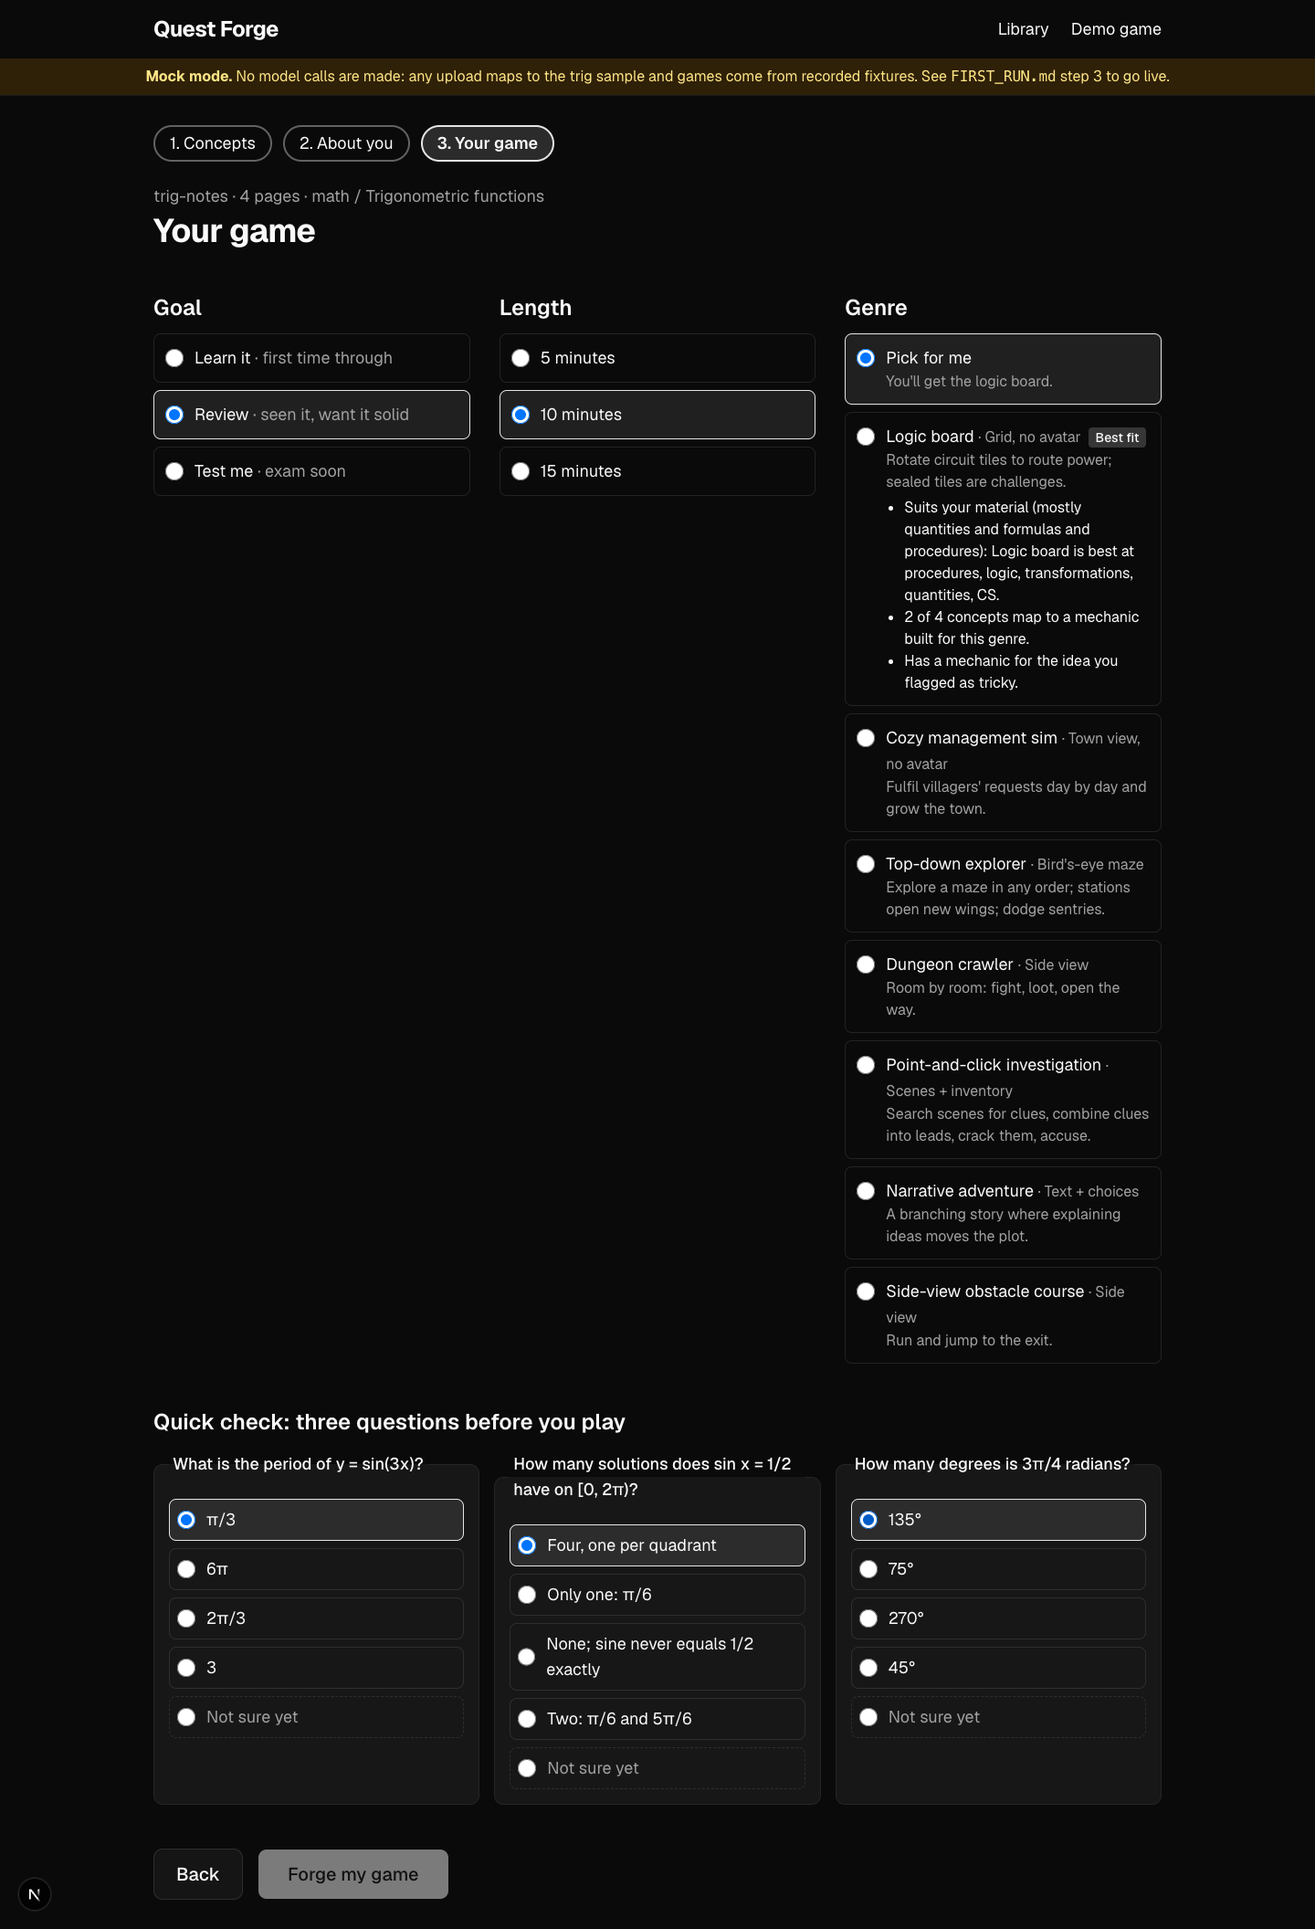
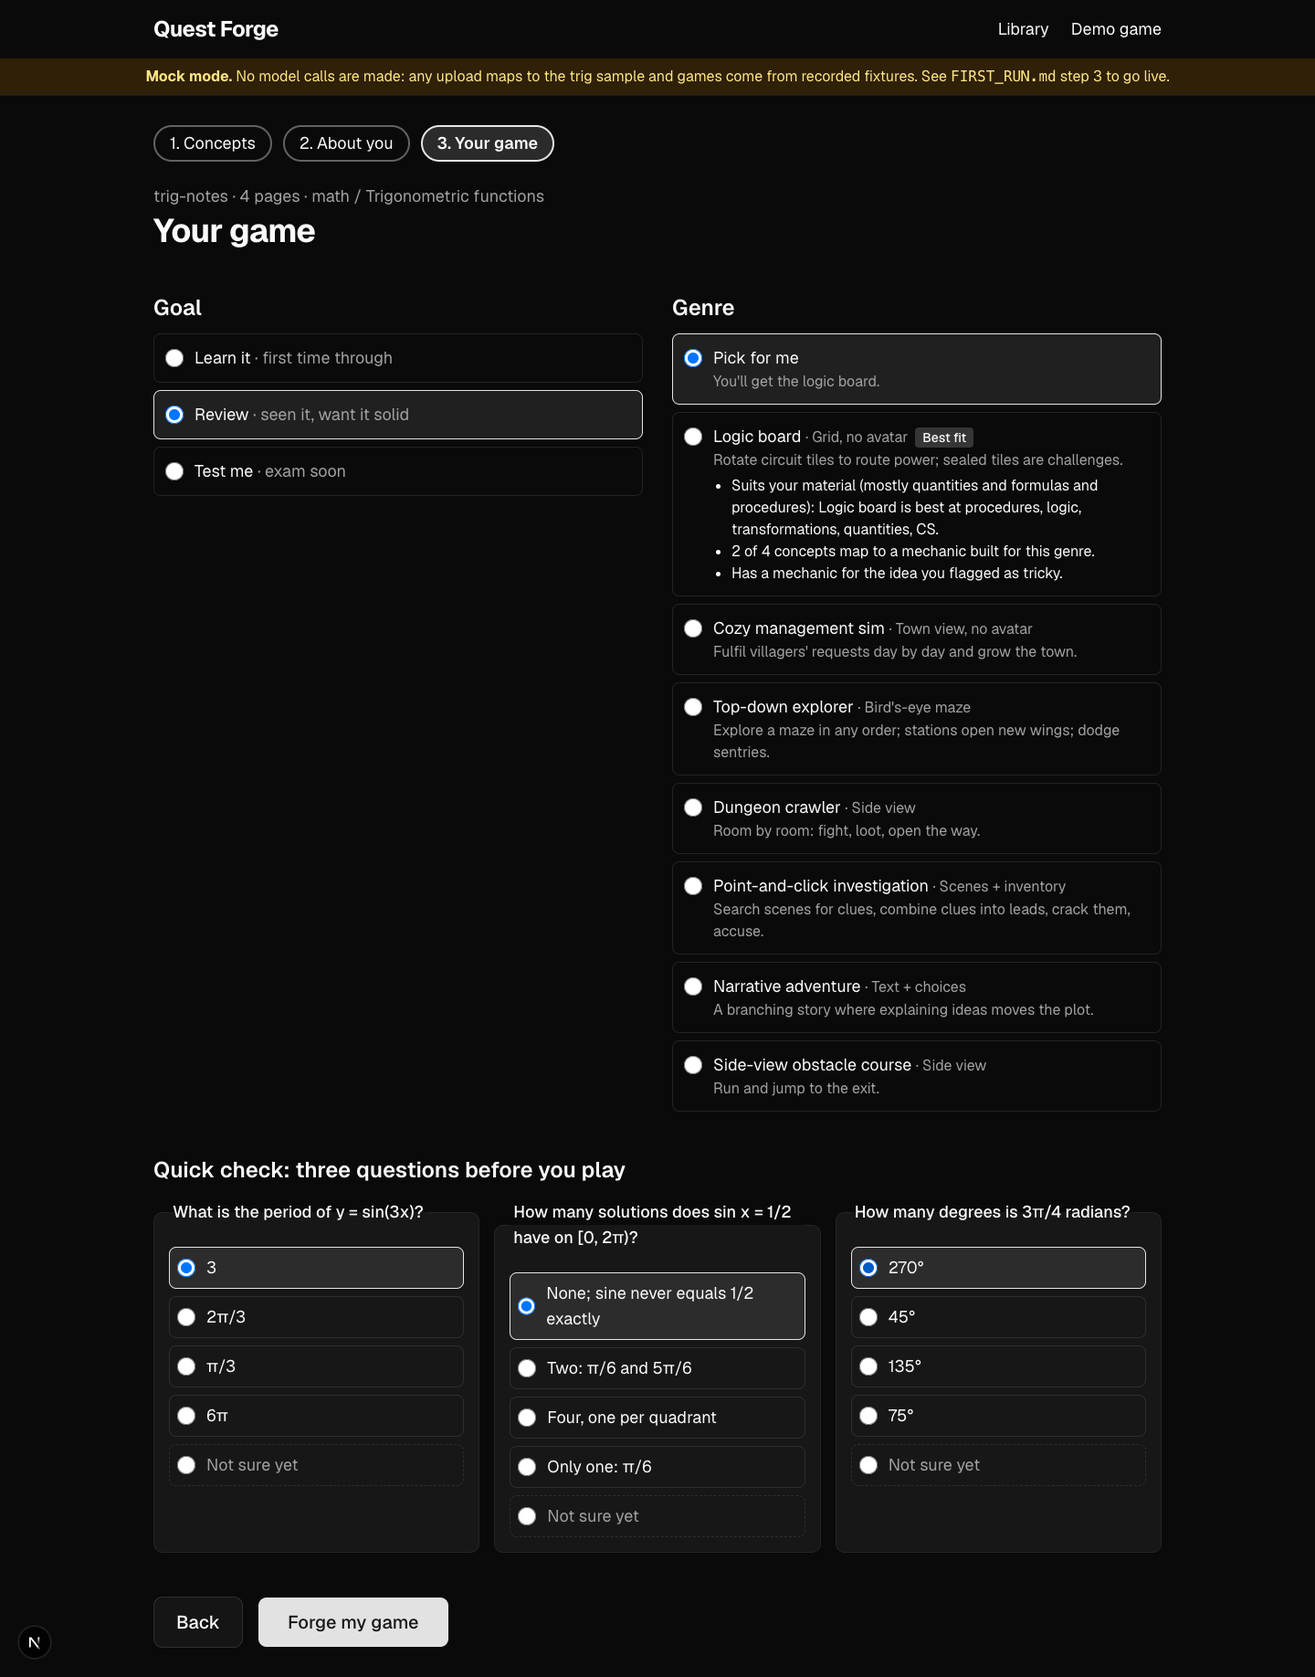
Let the student pick exactly which concepts the game covers
The length (5 / 10 / 15 minutes) moves to the Concepts step and caps the
pick at 4 / 7 / 10 concepts: past the cap the remaining boxes lock, a
selection that fits starts fully ticked, and choosing a shorter game than
the current pick blocks Next and Forge until enough are unticked. The job
then runs on exactly the ticked concepts; server-side focusing remains
only as a safety net for API clients and regenerate.

New e2e/concept-pick.spec.ts; 2232 unit tests and 17 e2e specs pass.

diff --git a/src/components/flow/intake-form.tsx b/src/components/flow/intake-form.tsx
@@ -23,8 +23,6 @@ interface IntakeData {
   parts?: number;
 }
 
-/** Up to this many concepts (one chapter's worth) everything starts ticked; above it the student picks. */
-export const SELECT_ALL_UP_TO = 25;
 /** How long after the last tick before asking the server for questions on the new selection. */
 const PRECHECK_DEBOUNCE_MS = 700;
 
@@ -34,6 +32,8 @@ const GOALS: { id: Intake["goal"]; label: string; hint: string }[] = [
   { id: "test", label: "Test me", hint: "exam soon" },
 ];
 const MINUTES: Intake["minutes"][] = [5, 10, 15];
+/** The length the page opens on; its concept limit decides whether everything starts ticked. */
+const DEFAULT_MINUTES: Intake["minutes"] = 10;
 
 /** The intake is three steps: what to play, what the student brings to it, and the game itself. */
 const STEPS = [
@@ -67,7 +67,7 @@ export function IntakeForm({ sourceId }: { sourceId: string }) {
   const [data, setData] = useState<IntakeData | null>(null);
   const [error, setError] = useState<string | null>(null);
   const [goal, setGoal] = useState<Intake["goal"]>("review");
-  const [minutes, setMinutes] = useState<Intake["minutes"]>(10);
+  const [minutes, setMinutes] = useState<Intake["minutes"]>(DEFAULT_MINUTES);
   const [genre, setGenre] = useState<Intake["genre"]>("auto");
   const [confidence, setConfidence] = useState<Record<string, number>>({});
   const [selected, setSelected] = useState<Set<string>>(new Set());
@@ -91,7 +91,8 @@ export function IntakeForm({ sourceId }: { sourceId: string }) {
         setData(d);
         setConfidence(Object.fromEntries(d.knowledgeMap.units.map((u) => [u.id, 3])));
         const all = d.knowledgeMap.concepts.map((c) => c.id);
-        setSelected(new Set(all.length <= SELECT_ALL_UP_TO ? all : []));
+        // Everything fits in the default length: start fully ticked. Otherwise the student picks which ones.
+        setSelected(new Set(all.length <= CONCEPTS_PER_GAME[DEFAULT_MINUTES] ? all : []));
       })
       .catch((e) => !cancelled && setError(e instanceof Error ? e.message : String(e)));
     return () => {
@@ -101,6 +102,9 @@ export function IntakeForm({ sourceId }: { sourceId: string }) {
 
   const total = data?.knowledgeMap.concepts.length ?? 0;
   const allSelected = total > 0 && selected.size === total;
+  // The game covers exactly the ticked concepts, so the length caps how many can be ticked.
+  const cap = CONCEPTS_PER_GAME[minutes];
+  const overCap = selected.size > cap;
   const selectionKey = useMemo(() => [...selected].sort().join(","), [selected]);
   const needsSubset = data !== null && selected.size > 0 && !allSelected;
   // Questions follow the selection: the prep pre-check covers the whole map, so a subset gets its own.
@@ -154,7 +158,7 @@ export function IntakeForm({ sourceId }: { sourceId: string }) {
     headingRef.current?.focus();
   }, [step]);
 
-  const ready = !!data && selected.size > 0 && !preCheckBusy && preCheck.length > 0 && answers.length === preCheck.length && answers.every((a) => a !== undefined);
+  const ready = !!data && selected.size > 0 && !overCap && !preCheckBusy && preCheck.length > 0 && answers.length === preCheck.length && answers.every((a) => a !== undefined);
 
   if (error) {
     return (
@@ -204,6 +208,7 @@ export function IntakeForm({ sourceId }: { sourceId: string }) {
     setAnswers([]);
   };
   const toggleConcept = (id: string, on: boolean) => {
+    if (on && selected.size >= cap) return;
     const next = new Set(selected);
     if (on) next.add(id);
     else next.delete(id);
@@ -212,8 +217,8 @@ export function IntakeForm({ sourceId }: { sourceId: string }) {
   const setUnit = (u: Unit, on: boolean) => {
     const next = new Set(selected);
     for (const id of u.conceptIds) {
-      if (on) next.add(id);
-      else next.delete(id);
+      if (on && next.size < cap) next.add(id);
+      else if (!on) next.delete(id);
     }
     changeSelection(next);
   };
@@ -245,7 +250,8 @@ export function IntakeForm({ sourceId }: { sourceId: string }) {
     }
   };
 
-  const bigUpload = total > SELECT_ALL_UP_TO;
+  const bigUpload = total > cap;
+  const atCap = selected.size >= cap;
   const parts = data.parts ?? 1;
 
   return (
@@ -276,19 +282,42 @@ export function IntakeForm({ sourceId }: { sourceId: string }) {
 
       {step === 0 && (
         <section aria-labelledby="step-heading">
+          <fieldset>
+            <legend className="text-2xl font-semibold">How long a game?</legend>
+            <div className="mt-3 flex flex-wrap gap-3">
+              {MINUTES.map((m) => (
+                <label
+                  key={m}
+                  className={`flex cursor-pointer items-center gap-3 rounded-md border p-3 text-lg ${minutes === m ? "border-primary bg-primary/10" : "border-border"}`}
+                >
+                  <input type="radio" name="minutes" value={m} checked={minutes === m} onChange={() => setMinutes(m)} className="h-5 w-5" data-testid={`minutes-${m}`} />
+                  <span>
+                    {m} minutes <span className="text-muted-foreground">· up to {CONCEPTS_PER_GAME[m]} concepts</span>
+                  </span>
+                </label>
+              ))}
+            </div>
+          </fieldset>
           {bigUpload && (
             <p className="mt-6 rounded-lg border border-amber-400/40 bg-amber-500/10 p-4 text-lg" data-testid="big-upload-note">
-              This is more than one game&apos;s worth: {km.units.length} units and {total} concepts. Tick the concepts you want in this game: a 5-minute game holds
-              about {CONCEPTS_PER_GAME[5]}, a 15-minute one about {CONCEPTS_PER_GAME[15]}.
+              I found {total} concepts in {km.units.length} unit{km.units.length === 1 ? "" : "s"}, more than a {minutes}-minute game covers. Tick the {cap} you want
+              this game to cover, or pick a longer game.
             </p>
           )}
-          <div className="mt-4 flex flex-wrap items-center gap-x-5 gap-y-2 text-lg" data-testid="selection-summary">
+          {overCap && (
+            <p role="alert" className="mt-4 rounded-lg border border-destructive/50 bg-destructive/10 p-4 text-lg" data-testid="over-cap-note">
+              A {minutes}-minute game covers up to {cap} concepts. Untick {selected.size - cap} or pick a longer game.
+            </p>
+          )}
+          <div className="mt-4 flex flex-wrap items-center gap-x-5 gap-y-2 text-lg" data-testid="selection-summary" aria-live="polite">
             <span>
-              <strong>{selected.size}</strong> of {total} concept{total === 1 ? "" : "s"} selected
+              <strong>{selected.size}</strong> of up to {cap} picked · {total} concept{total === 1 ? "" : "s"} found
             </span>
-            <button type="button" className="underline underline-offset-4 hover:text-primary" onClick={selectAll} data-testid="select-all">
-              Select all
-            </button>
+            {total <= cap && (
+              <button type="button" className="underline underline-offset-4 hover:text-primary" onClick={selectAll} data-testid="select-all">
+                Select all
+              </button>
+            )}
             <button type="button" className="underline underline-offset-4 hover:text-primary" onClick={selectNone} data-testid="select-none">
               Select none
             </button>
@@ -309,6 +338,7 @@ export function IntakeForm({ sourceId }: { sourceId: string }) {
                           if (el) el.indeterminate = picked > 0 && !unitAll;
                         }}
                         onChange={(e) => setUnit(u, e.target.checked)}
+                        disabled={!unitAll && picked === 0 && selected.size >= cap}
                         aria-label={`Select every concept in ${u.name}`}
                         data-testid={`unit-${u.id}`}
                       />
@@ -323,11 +353,12 @@ export function IntakeForm({ sourceId }: { sourceId: string }) {
                       const range = pageRange(km, cid);
                       return (
                         <li key={cid} className="text-lg">
-                          <label className="flex cursor-pointer items-start gap-3">
+                          <label className={`flex items-start gap-3 ${atCap && !selected.has(cid) ? "cursor-not-allowed opacity-60" : "cursor-pointer"}`}>
                             <input
                               type="checkbox"
                               className="mt-1.5 h-5 w-5 shrink-0"
                               checked={selected.has(cid)}
+                              disabled={atCap && !selected.has(cid)}
                               onChange={(e) => toggleConcept(cid, e.target.checked)}
                               data-testid={`concept-${cid}`}
                             />
@@ -376,7 +407,7 @@ export function IntakeForm({ sourceId }: { sourceId: string }) {
 
       {step === 2 && (
         <>
-          <section aria-labelledby="setup-heading" className="grid gap-8 md:grid-cols-3">
+          <section aria-labelledby="setup-heading" className="grid gap-8 md:grid-cols-2">
             <h2 id="setup-heading" className="sr-only">
               Game setup
             </h2>
@@ -392,23 +423,6 @@ export function IntakeForm({ sourceId }: { sourceId: string }) {
                   </label>
                 ))}
               </div>
-            </fieldset>
-            <fieldset>
-              <legend className="text-2xl font-semibold">Length</legend>
-              <div className="mt-3 flex flex-col gap-2">
-                {MINUTES.map((m) => (
-                  <label key={m} className={`flex cursor-pointer items-center gap-3 rounded-md border p-3 text-lg ${minutes === m ? "border-primary bg-primary/10" : "border-border"}`}>
-                    <input type="radio" name="minutes" value={m} checked={minutes === m} onChange={() => setMinutes(m)} className="h-5 w-5" />
-                    {m} minutes
-                  </label>
-                ))}
-              </div>
-              {selected.size > CONCEPTS_PER_GAME[minutes] && (
-                <p className="mt-3 text-base text-muted-foreground" data-testid="focus-note">
-                  A {minutes}-minute game holds about {CONCEPTS_PER_GAME[minutes]} of your {selected.size} concepts. It will focus on the ones you
-                  need most (the ones you flagged and rated lowest); pick a longer game to cover more.
-                </p>
-              )}
             </fieldset>
             <GenrePicker genre={genre} onChange={setGenre} recommendations={recs?.key === recKey ? recs.items : null} />
           </section>
@@ -481,7 +495,7 @@ export function IntakeForm({ sourceId }: { sourceId: string }) {
           </Button>
         )}
         {step < 2 ? (
-          <Button size="lg" className="h-14 px-8 text-xl" disabled={selected.size === 0} onClick={() => setStep(step + 1)} data-testid="step-next">
+          <Button size="lg" className="h-14 px-8 text-xl" disabled={selected.size === 0 || overCap} onClick={() => setStep(step + 1)} data-testid="step-next">
             {step === 0 ? "Next: a few questions" : "Next: your game"}
           </Button>
         ) : (
@@ -490,10 +504,11 @@ export function IntakeForm({ sourceId }: { sourceId: string }) {
           </Button>
         )}
         {step === 0 && selected.size === 0 && <span className="text-lg text-muted-foreground">Pick at least one concept to continue.</span>}
+        {step === 0 && overCap && <span className="text-lg text-muted-foreground">Untick {selected.size - cap} to continue.</span>}
         {step === 1 && <span className="text-lg text-muted-foreground">Every question here is optional.</span>}
         {step === 2 && !ready && (
           <span className="text-lg text-muted-foreground">
-            {selected.size === 0 ? "Pick at least one concept to continue." : preCheckBusy ? "Waiting for your questions…" : "Answer the three questions to continue."}
+            {selected.size === 0 ? "Pick at least one concept to continue." : overCap ? "Too many concepts for this length: go back a step." : preCheckBusy ? "Waiting for your questions…" : "Answer the three questions to continue."}
           </span>
         )}
       </div>

diff --git a/e2e/concept-pick.spec.ts b/e2e/concept-pick.spec.ts
@@ -1,0 +1,57 @@
+import { expect, test } from "@playwright/test";
+import path from "node:path";
+
+/*
+ * The student picks exactly which concepts the game covers. The length caps how many (5 → 4, 10 → 7,
+ * 15 → 10, CONCEPTS_PER_GAME): past the cap the remaining boxes lock, shortening the game past the
+ * current selection blocks Next until some are unticked, and the game is built on precisely the
+ * ticked concepts (no server-side focusing). Mock mode: the cell-transport sample has 9 concepts.
+ */
+
+test.use({ viewport: { width: 1440, height: 900 } });
+
+test("the length caps the pick, and the game covers exactly the ticked concepts", async ({ page }) => {
+  test.setTimeout(180_000);
+  await page.goto("/");
+  await page.getByTestId("file-input").setInputFiles(path.join(process.cwd(), "samples/cell-transport.pdf"));
+  await page.waitForURL(/\/intake\//, { timeout: 60_000 });
+  await expect(page.getByTestId("intake-form")).toBeVisible({ timeout: 60_000 });
+
+  // 9 concepts > 7 for the default 10 minutes: nothing is pre-ticked, the student chooses.
+  await expect(page.getByTestId("big-upload-note")).toBeVisible();
+  const boxes = page.locator('input[data-testid^="concept-"]');
+  await expect(boxes).toHaveCount(9);
+  for (let i = 0; i < 9; i++) await expect(boxes.nth(i)).not.toBeChecked();
+  await expect(page.getByTestId("step-next")).toBeDisabled();
+
+  for (let i = 0; i < 7; i++) await boxes.nth(i).check();
+  await expect(page.getByTestId("selection-summary")).toContainText("7 of up to 7 picked");
+  await expect(boxes.nth(7)).toBeDisabled();
+  await expect(boxes.nth(8)).toBeDisabled();
+
+  // Shorter game than the selection: blocked until three come off.
+  await page.getByTestId("minutes-5").check();
+  await expect(page.getByTestId("over-cap-note")).toBeVisible();
+  await expect(page.getByTestId("step-next")).toBeDisabled();
+  for (const i of [0, 2, 4]) await boxes.nth(i).uncheck();
+  await expect(page.getByTestId("over-cap-note")).toHaveCount(0);
+  const picked: string[] = [];
+  for (let i = 0; i < 9; i++) {
+    if (await boxes.nth(i).isChecked()) picked.push((await boxes.nth(i).getAttribute("data-testid"))!.replace(/^concept-/, ""));
+  }
+  expect(picked).toHaveLength(4);
+
+  await page.getByTestId("step-next").click();
+  await page.getByTestId("step-next").click();
+  for (let i = 0; i < 3; i++) await page.getByTestId(`precheck-${i}`).getByRole("radio").first().check({ timeout: 30_000 });
+  const gamesRequest = page.waitForRequest((r) => r.url().endsWith("/api/games") && r.method() === "POST");
+  await page.getByTestId("forge-button").click();
+  const body = (await gamesRequest).postDataJSON() as { intake: { minutes: number; conceptIds: string[] } };
+  expect(body.intake.minutes).toBe(5);
+  expect([...body.intake.conceptIds].sort()).toEqual([...picked].sort());
+
+  await page.waitForURL(/\/play\//, { timeout: 180_000 });
+  const gameId = page.url().split("/play/")[1].split(/[?#]/)[0];
+  const game = await (await page.request.get(`/api/games/${gameId}`)).json();
+  expect(game.spec.concepts.map((c: { id: string }) => c.id).sort()).toEqual([...picked].sort());
+});

diff --git a/DECISIONS.md b/DECISIONS.md
@@ -111,3 +111,7 @@ Format: one line of decision, one line of the alternative not taken. Newest at t
 - **Context:** The first live run (cell-transport sample, 14 concepts, 5 minutes) failed at the Director: 5-7 encounters cannot give 14 concepts one each, and the intake ticks up to 25 concepts by default.
 - **Decisions:** (1) `focusConcepts` (personalize.ts) plays at most `CONCEPTS_PER_GAME` (encounter minimum - 1: 4 / 7 / 10) concepts; the pre-check's and the flagged concepts are always kept, stretching up to `MAX_CONCEPTS_PER_GAME` (encounter maximum - 2: 5 / 10 / 12); the rest fill by Director weight. The Forge screen's "Focus" card lists what was left out; the intake's Length setting says how many fit. (2) The orchestrator resolves the genre on the whole selection before focusing, so "Pick for me" plays exactly what the intake page recommended (the first live run picked a different genre from the focused subset). (3) tests/orchestrator.test.ts runs the 9-concept cell sample at 15 minutes to keep covering the full 11-encounter path.
 - **Verified live (gpt-6-sol / gpt-6-luna):** upload -> intake 45 s -> game 75 s; the game played the recommended genre, targeted both flagged misconceptions (one drives the boss), and themed the story from the interests and note ("The Orbital Court Case", a space-station lab around a basketball court, "before tip-off").
+
+## 2026-09-27 01:10 The student picks exactly which concepts the game covers
+- **Context:** The user wants to choose which 4 / 7 / 10 concepts a game covers, not have the server pick them.
+- **Decisions:** (1) The length moved from the last intake step to the Concepts step, labelled with its limit (`CONCEPTS_PER_GAME`: 4 / 7 / 10). (2) Ticking stops at the limit (the remaining boxes lock; a unit's box adds until the limit); a selection that fits starts fully ticked, a bigger one starts empty. Choosing a shorter length than the current selection shows an alert and blocks Next and Forge until enough are unticked (nothing is unticked silently). (3) With the UI enforcing it, the job runs on exactly the ticked concepts; `focusConcepts` stays only as the server's safety net for API clients and regenerate. (4) e2e/concept-pick.spec.ts covers the lock, the shorter-length block, and that the game's concepts equal the ticked ones.

diff --git a/README.md b/README.md
@@ -10,11 +10,11 @@ Built for HackGT 13. Next.js 16 · React 19 · TypeScript · Phaser 4 · AI SDK 
 ## How a session works
 
 1. **Upload** a PDF (a chapter or a whole textbook; there is no page cap), pasted text, or a topic name.
-2. **Intake**, in three steps. *Concepts:* the concepts the pipeline extracted, with page ranges (a long book is read in
-   section-sized parts); you tick the ones to play (a chapter starts fully ticked, a book starts empty) and set a confidence
-   slider per unit. *About you:* for the weakest concepts, tick the statements that sound true (their misconceptions mixed
+2. **Intake**, in three steps. *Concepts:* pick a length (5, 10 or 15 minutes, which covers up to 4, 7 or 10 concepts),
+   then tick exactly the concepts the game covers from the ones the pipeline extracted, with page ranges (a long book is read
+   in section-sized parts; everything starts ticked when it fits the length), and set a confidence slider per unit. *About you:* for the weakest concepts, tick the statements that sound true (their misconceptions mixed
    with one true fact), pick interests, say what it's for, add a note; all optional. *Your game:* a goal (learn / review /
-   test), a length (5, 10, or 15 minutes), a genre ranked for you with reasons, and a 3-question pre-check ("Not sure yet"
+   test), a genre ranked for you with reasons, and a 3-question pre-check ("Not sure yet"
    is allowed). The concepts are mapped to library mechanics automatically; what you ticked becomes the game's targets and
    your interests its theme.
 3. **Forge** streams one live card per AI agent while the game is generated and verified (about 60 to 90 seconds live,
